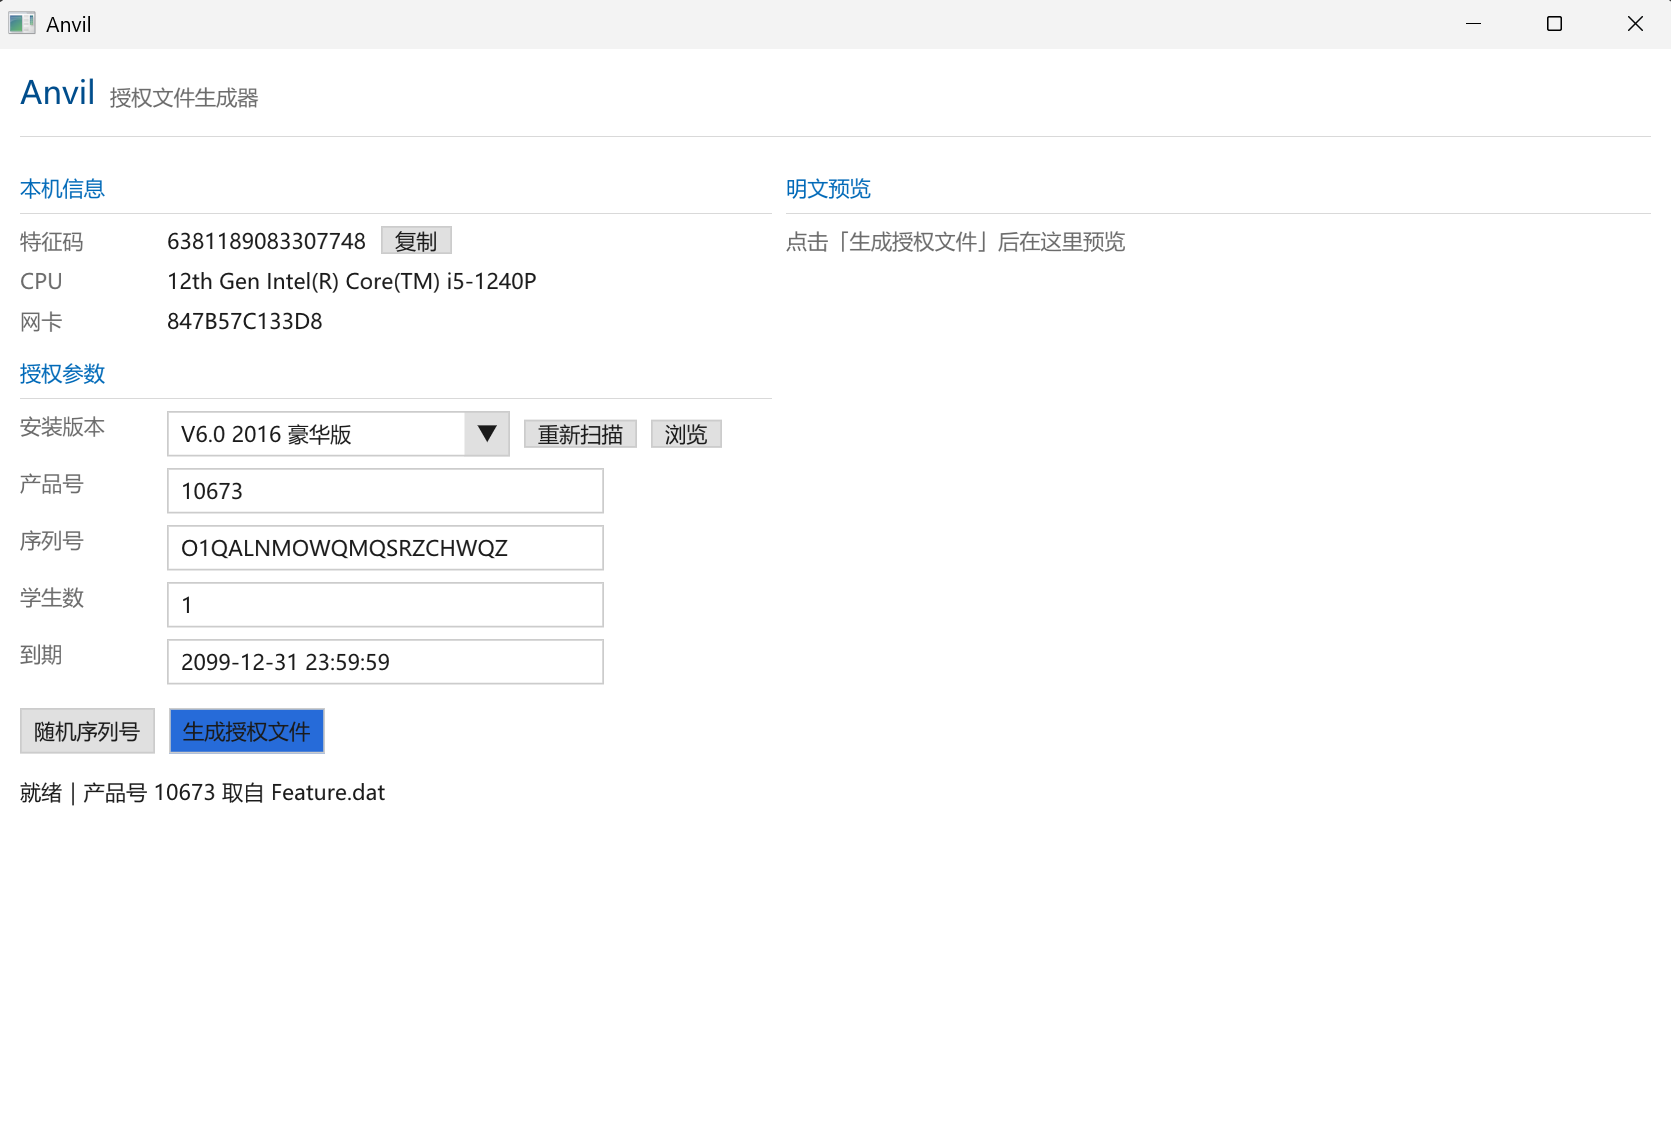
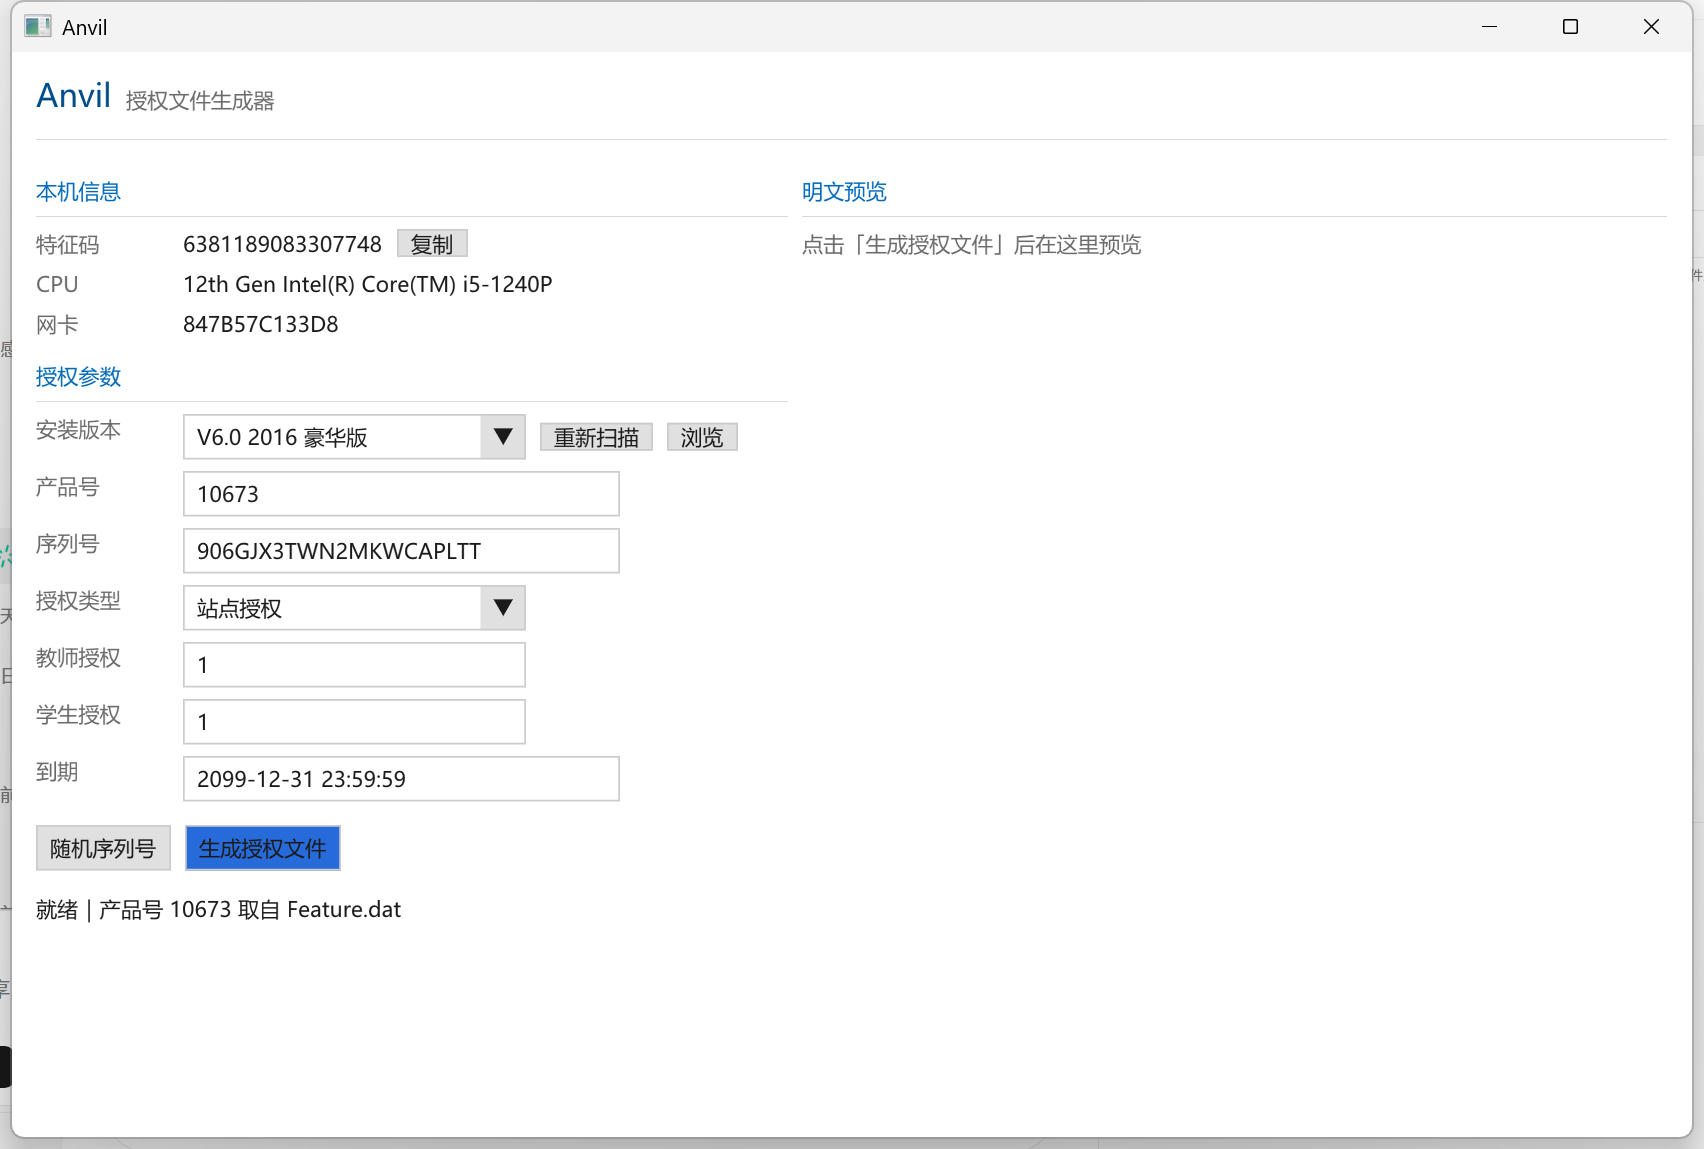
feat: 支持选择授权类型（站点/学校/单席位）
- ui/license_type: 授权类型下拉 + 教师授权数 + 学生授权数，单席位时自动锁另一项
- 生成时写入 eclass type/value/teacher；非 1/2 会在界面提示本机掩码不接受
- CLI 新增 --etype / --teachers，输出也补上类型与教师授权数
- README 补授权类型表与授权服务器说明；截图更新

diff --git a/src/ui/license_type.cpp b/src/ui/license_type.cpp
@@ -1,0 +1,94 @@
+#include "ui/license_type.h"
+
+#include <imgui.h>
+
+namespace anvil::ui {
+namespace {
+
+struct TypeOption {
+    int value;
+    const char* label;
+    const char* note;
+};
+
+// 文案对应语言包里的 PERSITE / PERSCHOOL / PERSEAT_*
+constexpr TypeOption kOptions[] = {
+    {1, "站点授权", "1 教师 + N 学生"},
+    {2, "学校授权", "N 教师 + N 学生"},
+    {4, "单席位（学生）", "1 学生"},
+    {8, "单席位（教师）", "1 教师"},
+};
+
+int IndexOf(int type) {
+    for (int i = 0; i < static_cast<int>(sizeof(kOptions) / sizeof(kOptions[0])); ++i) {
+        if (kOptions[i].value == type) {
+            return i;
+        }
+    }
+    return 0;
+}
+
+} // namespace
+
+std::string LicenseTypeName(int type) {
+    return kOptions[IndexOf(type)].label;
+}
+
+bool LicenseTypeUsesTeachers(int type) {
+    return type != 4;
+}
+
+bool DrawLicenseTypeFields(LicenseType* value, float scale) {
+    bool changed = false;
+    const float label_x = 84.0f * scale;
+    const float width = 196.0f * scale;
+
+    ImGui::TextDisabled("授权类型");
+    ImGui::SameLine(label_x);
+    ImGui::SetNextItemWidth(width);
+    int index = IndexOf(value->type);
+    if (ImGui::BeginCombo("##etype", kOptions[index].label)) {
+        for (int i = 0; i < static_cast<int>(sizeof(kOptions) / sizeof(kOptions[0])); ++i) {
+            const bool selected = i == index;
+            if (ImGui::Selectable(kOptions[i].label, selected)) {
+                value->type = kOptions[i].value;
+                changed = true;
+            }
+            if (selected) {
+                ImGui::SetItemDefaultFocus();
+            }
+            ImGui::SameLine();
+            ImGui::TextDisabled("%s", kOptions[i].note);
+        }
+        ImGui::EndCombo();
+    }
+
+    // 单席位固定 1，不需要让用户改
+    ImGui::BeginDisabled(!LicenseTypeUsesTeachers(value->type));
+    ImGui::TextDisabled("教师授权");
+    ImGui::SameLine(label_x);
+    ImGui::SetNextItemWidth(width);
+    if (ImGui::InputInt("##teachers", &value->teachers, 0, 0)) {
+        value->teachers = value->teachers < 1 ? 1 : value->teachers;
+        changed = true;
+    }
+    ImGui::EndDisabled();
+
+    ImGui::BeginDisabled(value->type == 8);
+    ImGui::TextDisabled("学生授权");
+    ImGui::SameLine(label_x);
+    ImGui::SetNextItemWidth(width);
+    if (ImGui::InputInt("##students", &value->students, 0, 0)) {
+        value->students = value->students < 1 ? 1 : value->students;
+        changed = true;
+    }
+    ImGui::EndDisabled();
+
+    if (value->type != 1 && value->type != 2) {
+        ImGui::TextColored(ImVec4(0.75f, 0.35f, 0.05f, 1.0f),
+                           "单席位类型需要教师端掩码支持，本机实测只接受站点/学校（掩码=3）");
+    }
+    return changed;
+}
+
+} // namespace anvil::ui

diff --git a/src/main/main.cpp b/src/main/main.cpp
@@ -61,7 +61,9 @@ void PrintUsage() {
         "  --out <file>       输出路径，默认 <序列号>.lic\n"
         "  --serial <20位>    指定序列号，默认随机\n"
         "  --product <n>      产品号，默认从 Feature.dat 自动读取\n"
-        "  --students <n>     学生席位，默认 1\n"
+        "  --students <n>     学生授权数，默认 1\n"
+        "  --teachers <n>     教师授权数，默认 1\n"
+        "  --etype <n>        授权类型：1=站点 2=学校 4/8=单席位（教师端只接受 1/2）\n"
         "  --period <时间>    到期时间，默认 2099-12-31 23:59:59\n";
 }
 
@@ -166,6 +168,10 @@ int RunGenerate(const std::vector<std::string>& args) {
             product_set = true;
         } else if (key == "--students" && has_value) {
             spec.eclass_value = std::atoi(args[++i].c_str());
+        } else if (key == "--teachers" && has_value) {
+            spec.eclass_teacher = std::atoi(args[++i].c_str());
+        } else if (key == "--etype" && has_value) {
+            spec.eclass_type = std::atoi(args[++i].c_str());
         } else if (key == "--period" && has_value) {
             spec.period = args[++i];
         }
@@ -207,7 +213,9 @@ int RunGenerate(const std::vector<std::string>& args) {
     std::cout << "产品号   : " << spec.product << "\n"
               << "机器码   : " << spec.machine_code << "\n"
               << "序列号   : " << anvil::core::Serial::Pretty(spec.serial) << "\n"
-              << "学生席位 : " << spec.eclass_value << "\n"
+              << "授权类型 : " << spec.eclass_type << "\n"
+              << "教师授权 : " << spec.eclass_teacher << "\n"
+              << "学生授权 : " << spec.eclass_value << "\n"
               << "到期     : " << spec.period << "\n"
               << "已写出   : " << output << "\n";
     return 0;

diff --git a/src/ui/app.cpp b/src/ui/app.cpp
@@ -6,6 +6,7 @@
 #include "core/serial.h"
 #include "ui/gfx.h"
 #include "ui/theme.h"
+#include "ui/license_type.h"
 #include "ui/version_picker.h"
 #include "ui/xml_pretty.h"
 
@@ -159,10 +160,10 @@ private:
         ImGui::SetNextItemWidth(input_width);
         ImGui::InputText("##serial", serial_, sizeof(serial_));
 
-        ImGui::TextDisabled("学生数");
-        ImGui::SameLine(kLabelOffset * gfx_.Scale());
-        ImGui::SetNextItemWidth(input_width);
-        ImGui::InputText("##students", students_, sizeof(students_), ImGuiInputTextFlags_CharsDecimal);
+        if (DrawLicenseTypeFields(&license_type_, gfx_.Scale())) {
+            status_ = "授权类型：" + LicenseTypeName(license_type_.type) + "，教师 " +
+                      std::to_string(license_type_.teachers) + " / 学生 " + std::to_string(license_type_.students);
+        }
 
         ImGui::TextDisabled("到期");
         ImGui::SameLine(kLabelOffset * gfx_.Scale());
@@ -234,9 +235,9 @@ private:
             spec.product = product;
             spec.subver = product;
         }
-        if (const int students = std::atoi(students_); students > 0) {
-            spec.eclass_value = students;
-        }
+        spec.eclass_type = license_type_.type;
+        spec.eclass_value = license_type_.students;
+        spec.eclass_teacher = license_type_.teachers;
         if (period_[0] != '\0') {
             spec.period = period_;
         }
@@ -280,7 +281,7 @@ private:
     std::string xml_view_;
     char product_[16] = "10652";
     char serial_[64] = "";
-    char students_[16] = "1";
+    LicenseType license_type_;
     char period_[40] = "2099-12-31 23:59:59";
 };
 

diff --git a/src/ui/license_type.h b/src/ui/license_type.h
@@ -1,0 +1,25 @@
+#pragma once
+
+#include <string>
+
+namespace anvil::ui {
+
+// <eclass type=.. value=.. teacher=..> 的三个字段
+// 类型取值来自客户端资源里的三类文案（PERSITE / PERSCHOOL / PERSEAT），
+// 其中 1、2 已在本机 2016/2017 版实测通过；4、8 是单席位，教师端掩码=3 会拒绝（返回 0x65）。
+struct LicenseType {
+    int type = 1;       // 1=站点 2=学校 4=单席位(学生) 8=单席位(教师)
+    int teachers = 1;
+    int students = 1;
+};
+
+// 画「授权类型 / 教师授权 / 学生授权」三行；返回 true 表示本帧有改动
+bool DrawLicenseTypeFields(LicenseType* value, float scale);
+
+// 类型名，用于状态栏提示
+std::string LicenseTypeName(int type);
+
+// 该类型是否需要教师数（单席位教师版没有学生数，反之亦然）
+bool LicenseTypeUsesTeachers(int type);
+
+} // namespace anvil::ui
